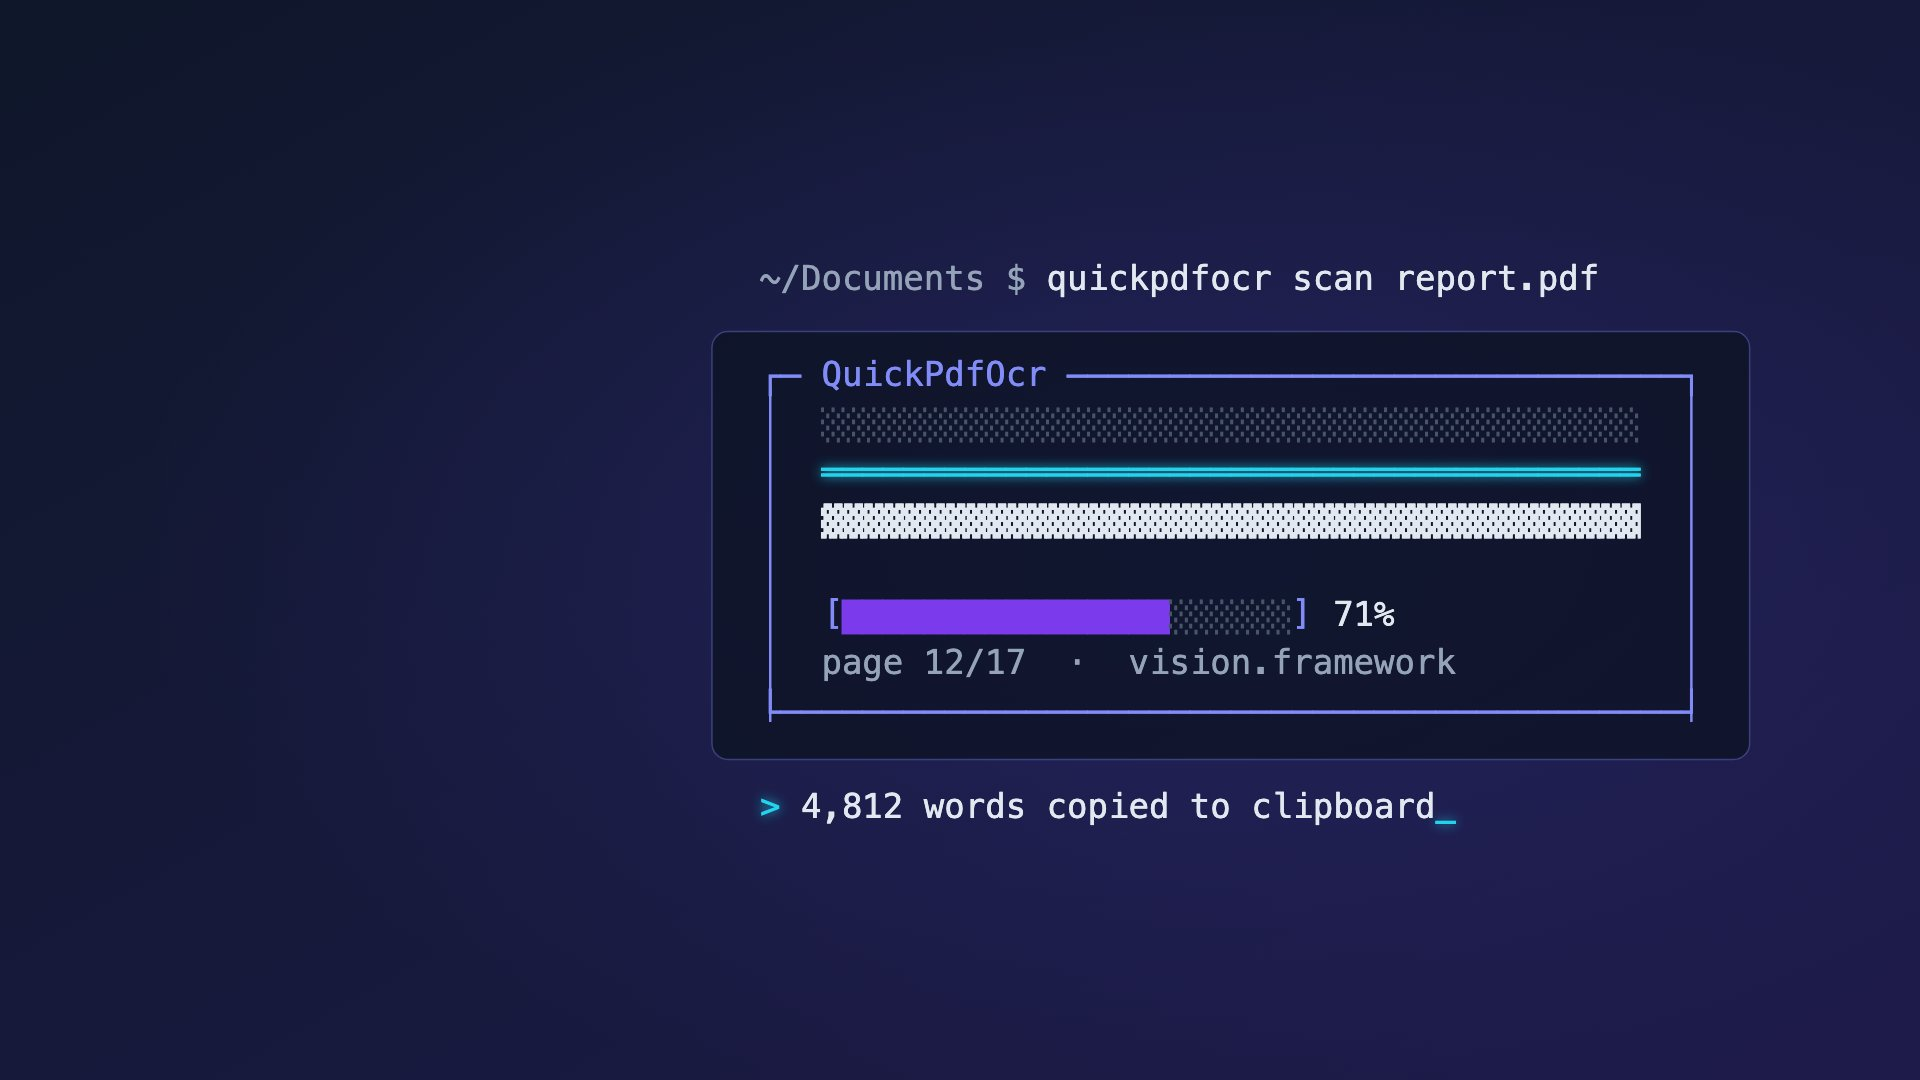
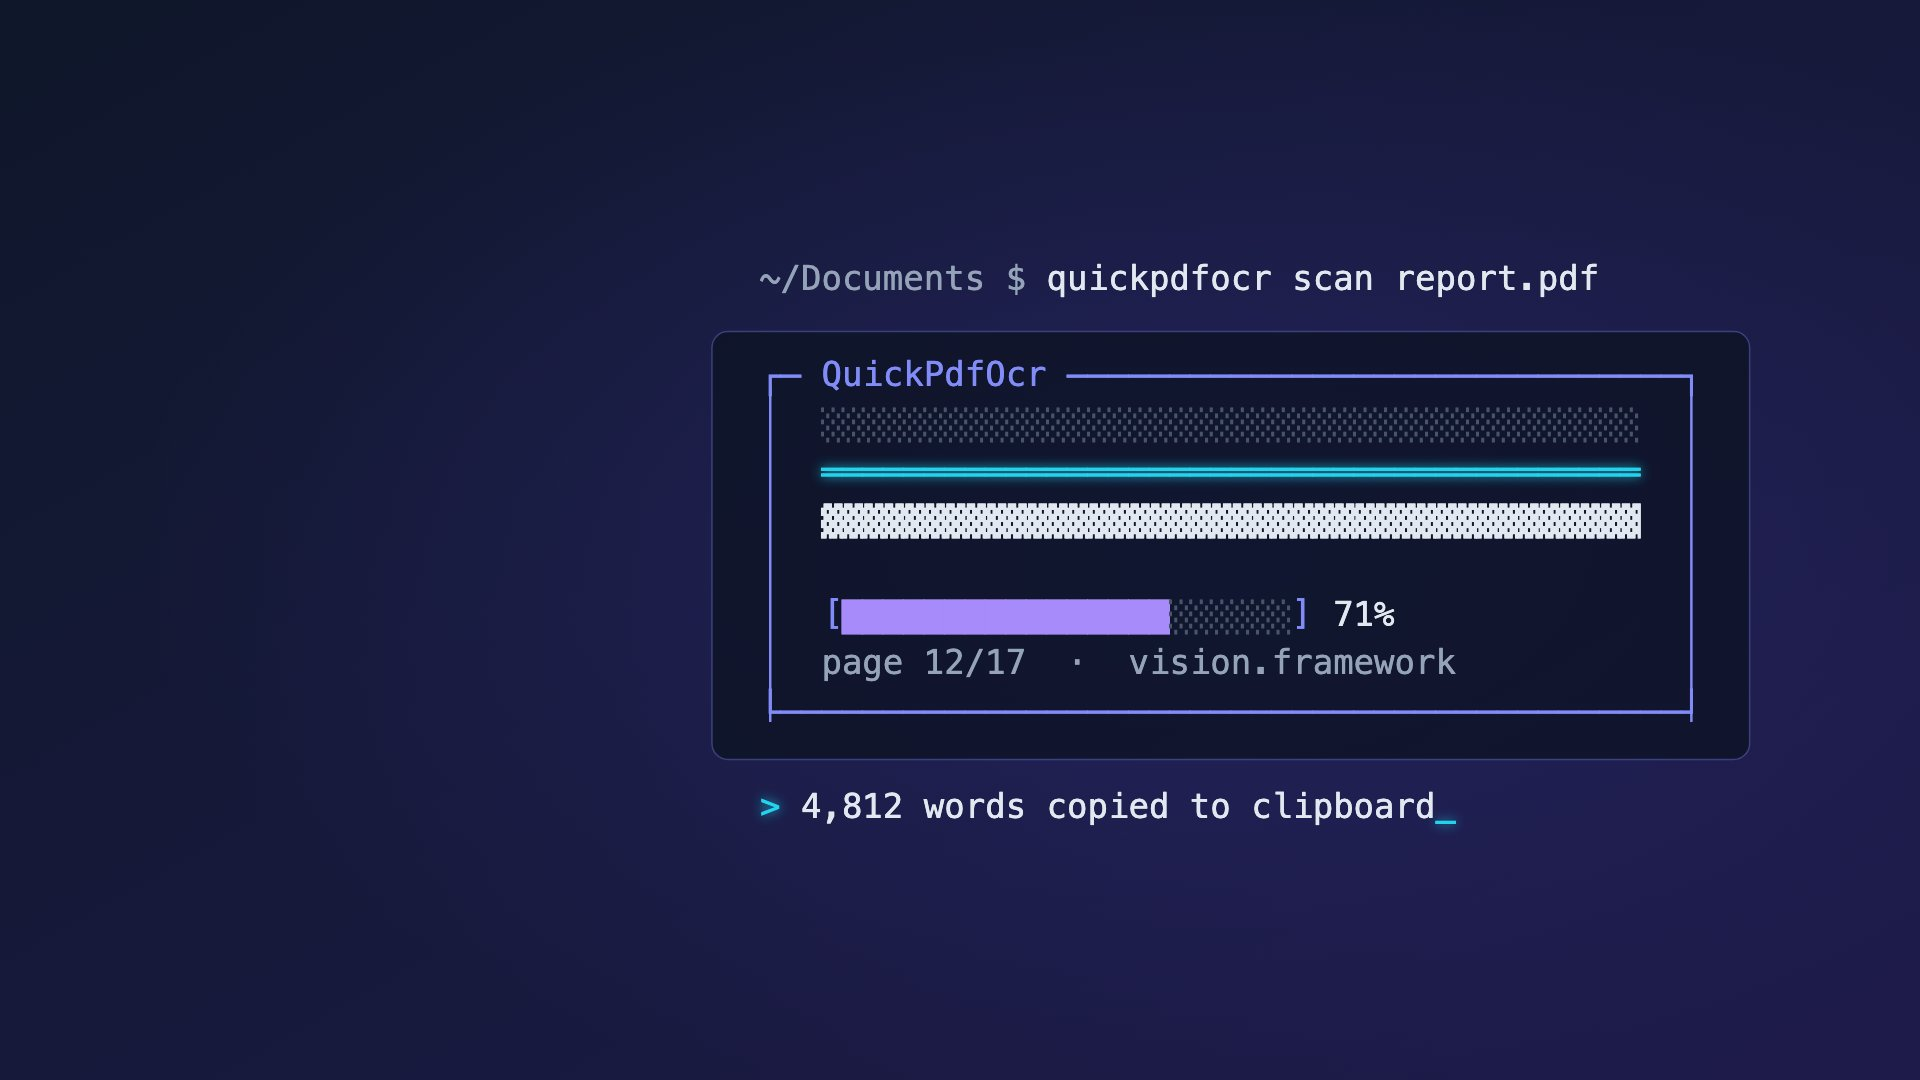
fix: address whole-branch review findings on terminal brand refresh
Fixes the three Important defects plus seven smaller findings from the
final review of the ASCII terminal brand pivot:

- .feature-card:hover and .download-card:hover both used dead/inverted
  border colours (a leftover light-theme rgba() that composited to
  1.30:1, and a hover value identical to the resting border). Both now
  hover to var(--accent) (8.09:1 against the card background).
- The rendered-contrast test's walker skipped any element that mixed its
  own text with a text-bearing child, silently excluding 9 of 81
  candidates including the hero. Narrowed the skip condition to elements
  with no direct text node of their own; re-running against the real page
  surfaces no genuine failures.
- Added a hover-state contrast guard for both card types so this class of
  regression is test-visible going forward.
- While verifying the walker fix's own mutation proof, found that
  .hero-terminal's color/margin declarations were dead: .ascii-art (later
  in source, equal specificity) always won the cascade tie, so the hero
  rendered inherited light-gray text with no top margin instead of the
  intended indigo ink and 2rem gap. Raised .hero-terminal to a compound
  .ascii-art.hero-terminal selector so it can't lose that tie.
- Corrected a doc overclaim (page does make external image requests, just
  not CSS/JS/font ones), two stale clamp() values left over from an
  earlier fix, a second monospace stack on .code-example that bypassed
[…]

Changed region(s): [[0.4375, 0.55, 0.625, 0.6111]]

diff --git a/docs/index.html b/docs/index.html
@@ -52,7 +52,6 @@
             --slate-dark: var(--text);
             --slate-light: var(--surface);
             --text-gray: var(--dim);
-            --bg-white: var(--bg);
             --border-color: #64748B;
             --shadow-md: 0 4px 12px -2px rgb(0 0 0 / 0.5);
             --shadow-lg: 0 12px 28px -6px rgb(0 0 0 / 0.6);
@@ -223,7 +222,12 @@
             border-color: var(--text);
         }
 
-        .hero-terminal {
+        /* Compound selector, not bare .hero-terminal: .ascii-art (below)
+           also declares color and margin at equal specificity, and being
+           later in source it would otherwise win the cascade and silently
+           drop both of this rule's own values back to inherited text
+           colour and a flush margin. */
+        .ascii-art.hero-terminal {
             /* .ascii-art is color:inherit so the per-card .icon-* classes can
                tint each icon; the hero has no such wrapper, so it states its
                own ink here. */
@@ -324,7 +328,6 @@
 
         .ascii-art .beam { color: var(--accent); }
         .ascii-art .fill { color: var(--bar-ink); }
-        .ascii-art .dim  { color: var(--dim); }
 
         .ascii-icon {
             font-size: 15px;
@@ -357,7 +360,7 @@
         .feature-card:hover {
             transform: translateY(-4px);
             box-shadow: var(--shadow-lg);
-            border-color: rgba(79, 70, 229, 0.35);
+            border-color: var(--accent);
         }
 
         .feature-icon {
@@ -438,7 +441,7 @@
 
         .download-card:hover {
             transform: translateY(-4px);
-            border-color: var(--indigo);
+            border-color: var(--accent);
             box-shadow: var(--shadow-lg);
         }
 
@@ -521,7 +524,7 @@
             padding: 1.5rem;
             border-radius: 12px;
             margin-top: 2.5rem;
-            font-family: ui-monospace, SFMono-Regular, "SF Mono", Menlo, Consolas, monospace;
+            font-family: var(--mono);
             font-size: 0.92rem;
             text-align: left;
             overflow-x: auto;

diff --git a/tests/test_site_rendering.py b/tests/test_site_rendering.py
@@ -13,7 +13,6 @@ sync_playwright = pytest.importorskip(
 
 ROOT = Path(__file__).resolve().parent.parent
 INDEX = ROOT / "docs" / "index.html"
-SHOTS = ROOT / "docs" / "design" / "screenshots"
 VIEWPORTS = [(375, "mobile"), (768, "tablet"), (1440, "desktop")]
 
 # Shared verbatim between test_every_text_element_clears_aa_against_its_real_background
@@ -93,12 +92,17 @@ def test_no_horizontal_overflow(page, width, label):
 
 
 @pytest.mark.parametrize("width,label", VIEWPORTS, ids=[v[1] for v in VIEWPORTS])
-def test_capture_screenshot(page, width, label):
-    SHOTS.mkdir(parents=True, exist_ok=True)
+def test_capture_screenshot(page, width, label, tmp_path):
+    # Writes into pytest's tmp_path, not the tracked docs/design/screenshots/
+    # directory: those committed PNGs are review evidence, refreshed
+    # deliberately by a human, not regenerated as a side effect of running
+    # the suite (a different Chromium build or font set would otherwise
+    # produce a spurious binary diff on every run).
     page.set_viewport_size({"width": width, "height": 900})
     page.goto(INDEX.as_uri())
-    page.screenshot(path=str(SHOTS / f"{label}-{width}.png"), full_page=True)
-    assert (SHOTS / f"{label}-{width}.png").exists()
+    shot = tmp_path / f"{label}-{width}.png"
+    page.screenshot(path=str(shot), full_page=True)
+    assert shot.exists()
 
 
 def test_no_tofu_glyphs(page):
@@ -162,7 +166,9 @@ def test_every_text_element_clears_aa_against_its_real_background(page):
             for (const el of document.querySelectorAll(
                     'h1,h2,h3,h4,p,a,li,span,button,pre,strong,em')) {
                 if (!el.textContent.trim()) continue;
-                if ([...el.children].some(c => c.textContent.trim())) continue;
+                const own = [...el.childNodes].some(
+                    n => n.nodeType === 3 && n.textContent.trim());
+                if (!own) continue;
                 const style = getComputedStyle(el);
                 const art = el.closest('.ascii-art');
                 const need = art ? 3.0 : 4.5;
@@ -234,6 +240,36 @@ def test_contrast_helper_composites_translucent_backgrounds(page):
         "translucent pairing should read low contrast once composited "
         f"over its ancestor — a helper reading the raw rgba() string "
         f"would score this ~16.8:1 and miss it: {results}"
+    )
+
+
+@pytest.mark.parametrize("selector", [".feature-card", ".download-card"])
+def test_card_hover_border_clears_ui_contrast(page, selector):
+    """A card's border must stay visible — not vanish or no-op — on hover.
+
+    Neither the rest-state contrast walker above nor any static test reads
+    a :hover pseudo-class, so a hover rule that composites to near-1:1 (the
+    card dissolving into its section) or one that is a byte-for-byte no-op
+    (declaring the same colour the border already has) is invisible to
+    every other guard in this suite. Borders are non-text UI components
+    (WCAG 1.4.11), so the floor here is 3:1, evaluated against the same
+    real, alpha-composited background bgOf() resolves everywhere else.
+    """
+    page.set_viewport_size({"width": 1440, "height": 900})
+    page.goto(INDEX.as_uri())
+    card = page.query_selector(selector)
+    assert card is not None, f"{selector} not found on page"
+    card.hover()
+    got = page.evaluate(
+        "(el) => {\n" + CONTRAST_HELPERS_JS + """
+            const style = getComputedStyle(el);
+            return ratio(style.borderTopColor, bgOf(el));
+        }""",
+        card,
+    )
+    assert got >= 3.0, (
+        f"{selector}:hover border is only {got:.2f}:1 against its "
+        "composited background, needs >= 3.0:1"
     )
 
 

diff --git a/docs/design/brand-refresh-prompts.md b/docs/design/brand-refresh-prompts.md
@@ -141,5 +141,5 @@ page's structure or wording changed, only its visual language:
 - The favicon points at `resources/favicon.png` (32px, rendered from the small
   master); the header logo `<img>` still points at `resources/icon.png` — at the 36px
   it renders on the page, the detailed master still reads clearly.
-- The page remains one self-contained HTML file: no external CSS, JS, font, or image
+- The page remains one self-contained HTML file: no external CSS, JS, or font
   requests.

diff --git a/docs/superpowers/specs/2026-08-15-ascii-terminal-brand-design.md b/docs/superpowers/specs/2026-08-15-ascii-terminal-brand-design.md
@@ -197,7 +197,7 @@ The hero becomes **live ASCII in the HTML**, not an image:
 > 4,812 words copied to clipboard_
 ```
 
-Fixed at 46 columns, sized with `font-size: clamp(6px, 1.55vw, 15px)` so the block always
+Fixed at 46 columns, sized with `font-size: clamp(11px, 3vw, 15px)` so the block always
 fits without horizontal scroll. One variant only — no per-breakpoint markup duplicates.
 
 `resources/hero.svg` is re-authored to depict this same scene and rendered to

diff --git a/docs/superpowers/plans/2026-08-15-ascii-terminal-brand.md b/docs/superpowers/plans/2026-08-15-ascii-terminal-brand.md
@@ -577,7 +577,7 @@ In the `/* Hero Section */` block at `docs/index.html:120-214`: delete every `ba
                tint each icon; the hero has no such wrapper, so it states its
                own ink here. */
             color: var(--frame);
-            font-size: clamp(6px, 1.55vw, 15px);
+            font-size: clamp(11px, 3vw, 15px);
             margin: 2rem auto 0;
             width: max-content;
             max-width: 100%;
